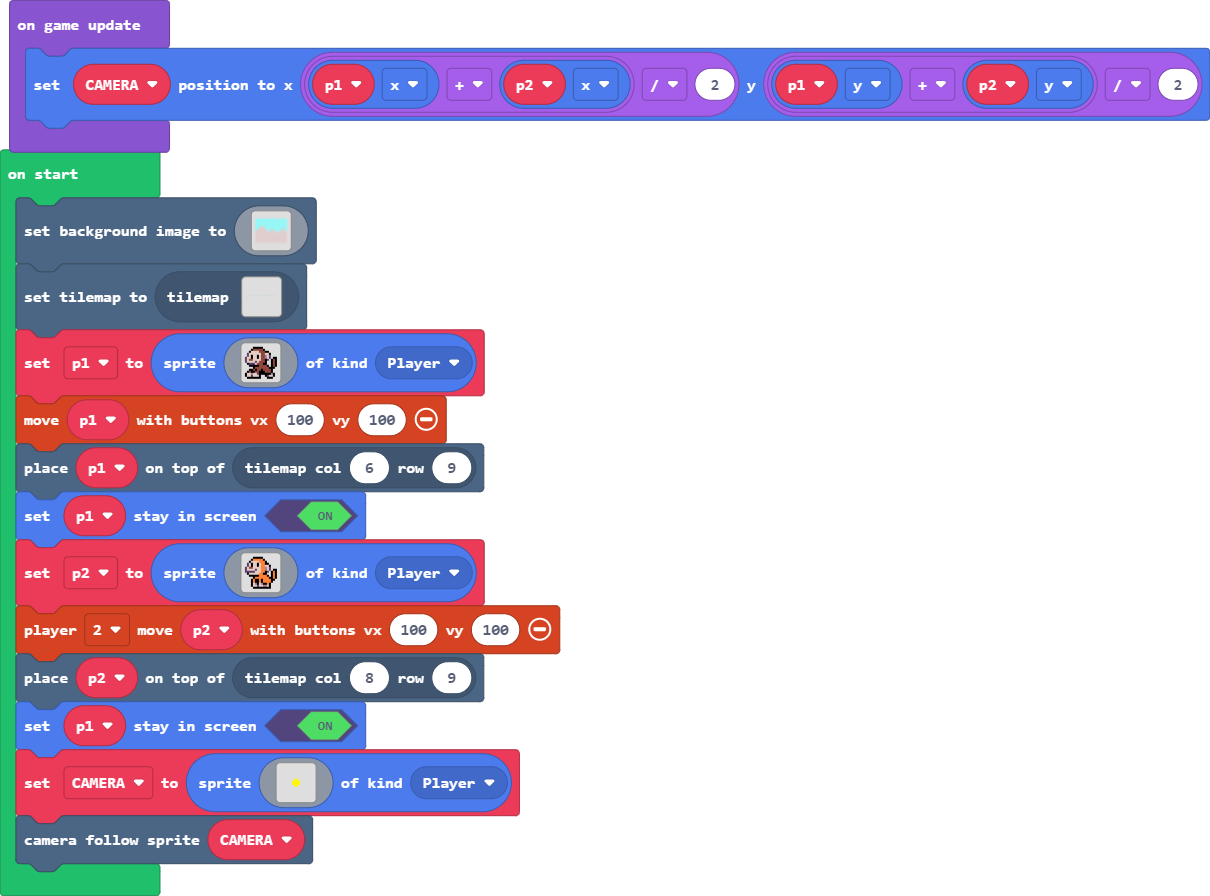
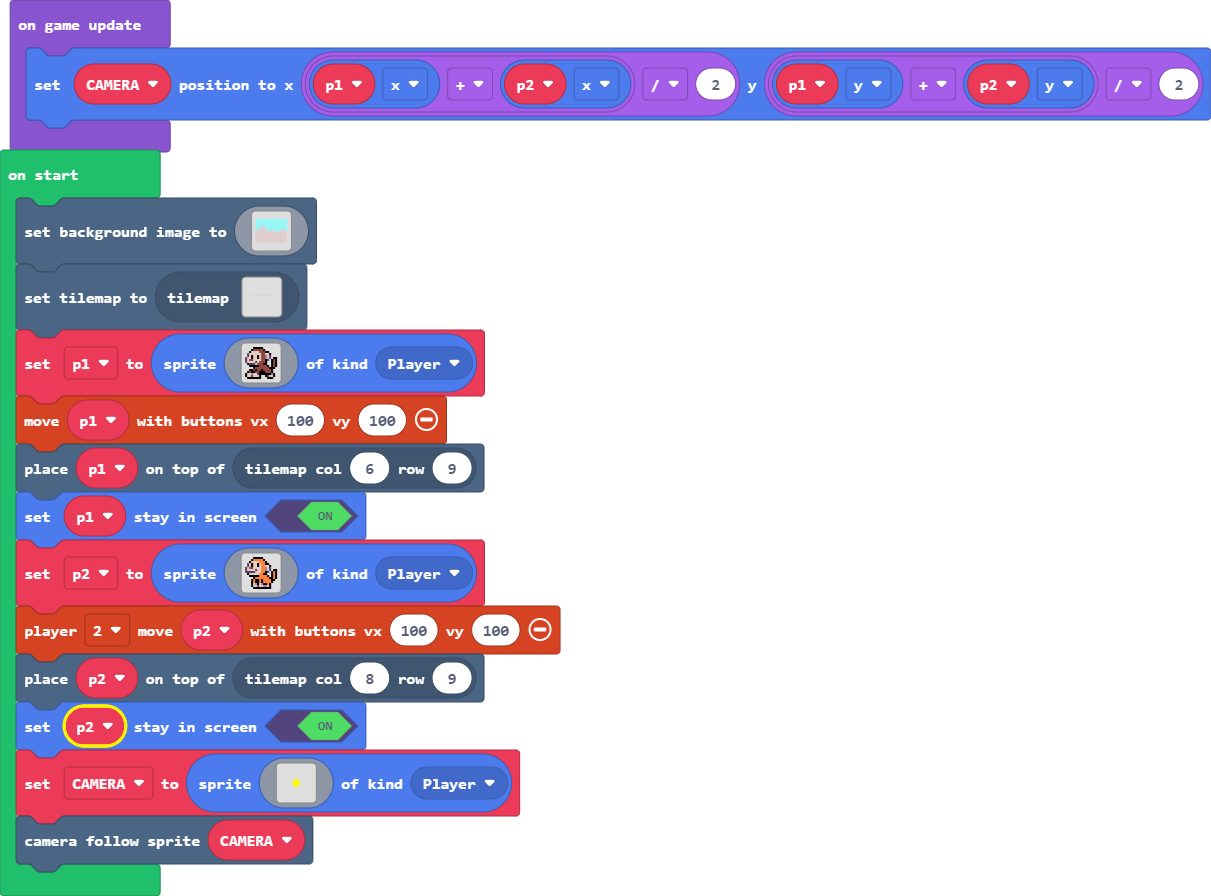
Update main.blocks, main.ts

diff --git a/main.ts b/main.ts
@@ -162,7 +162,7 @@ let p2 = sprites.create(img`
     `, SpriteKind.Player)
 controller.player2.moveSprite(p2, 100, 100)
 tiles.placeOnTile(p2, tiles.getTileLocation(8, 9))
-p1.setStayInScreen(true)
+p2.setStayInScreen(true)
 let CAMERA = sprites.create(img`
     . . . . . . . . . . . . . . . . 
     . . . . . . . . . . . . . . . . 
